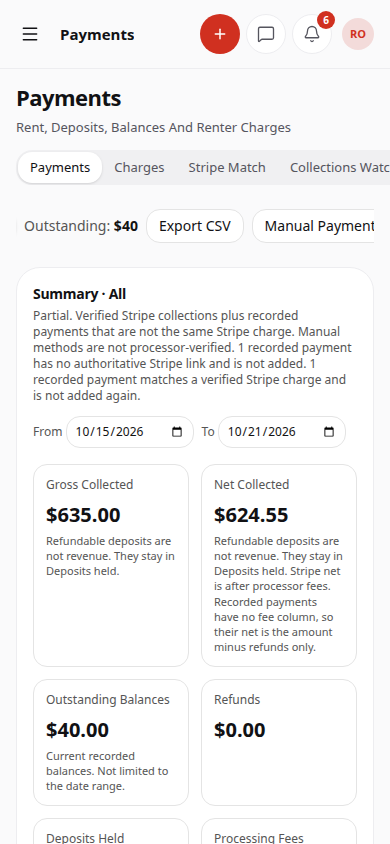
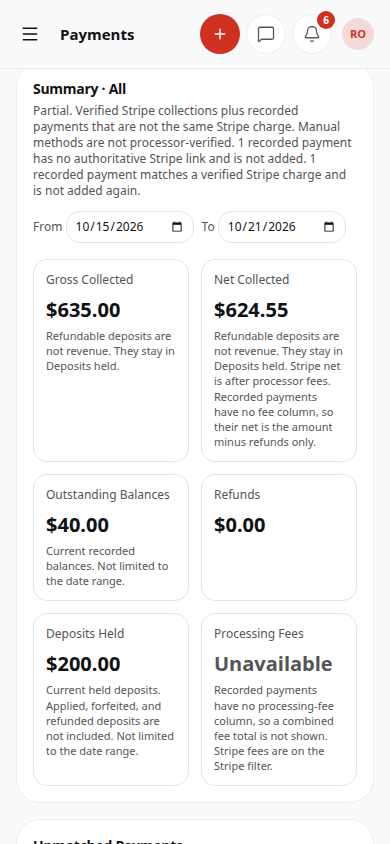
Keep the payments outstanding total off the date range.
The top bar sums source-filtered balances, so an overdue row due before the window still matches the Outstanding Balances card. The table and CSV share one visible-row list, checked from fixture data.

diff --git a/src/components/admin/PaymentsPanel.tsx b/src/components/admin/PaymentsPanel.tsx
@@ -15,11 +15,14 @@ import {
   SOURCE_LABEL,
   SOURCE_MAPPING_GAPS,
   classifyPaymentSource,
+  paymentCsvRecords,
   paymentsCsv,
   paymentsExportFilename,
   readEveryPage,
+  recordedOutstandingTotal,
   rowInReportRange,
   summarizePayments,
+  visiblePayments,
   type DepositRentalFact,
   type Metric,
   type RefundLink,
@@ -215,31 +218,21 @@ export function PaymentsPanel({
   }, [rangeProblem, extras, readsComplete, canSeeCollections, stripeQuery.isError, stripeQuery.data, payments, refundLinks, depositRentals, source, range]);
   const stripeTagged = sourced.filter((p) => p.stripe_payment_intent_id || p.stripe_invoice_id || p.stripe_subscription_id);
 
-  const filtered = (
-    statusFilter === "all"
-      ? inRangeRows
-      : statusFilter === "overdue"
-        ? inRangeRows.filter((p) => OVERDUE_SET.has(p.status as string))
-        : inRangeRows.filter((p) => p.status === statusFilter)
-  )
-    .slice()
-    .sort((a, b) => {
-      if (sort === "amount_desc") return Number(b.amount) - Number(a.amount);
-      const ad = a.due_date || "9999";
-      const bd = b.due_date || "9999";
-      return sort === "due_asc" ? ad.localeCompare(bd) : bd.localeCompare(ad);
-    });
+  const paymentView = {
+    range,
+    status: statusFilter,
+    sort,
+    overdueStatuses: COLLECTIONS_WATCH_STATUSES,
+  };
+  const filtered = visiblePayments(sourced, paymentView);
 
-  // Owed now: due/unpaid states only. Upcoming isn't due yet; paid, refunded,
-  // waived and void owe nothing. A settled balance of 0 is 0, not the amount.
-  const OWED = new Set(["pending", "current", "late", "overdue", "past_due", "failed", "unpaid", "collections"]);
-  const totalDue = filtered
-    .filter((p) => OWED.has(p.status as string))
-    .reduce((s, p) => s + (p.balance_due == null ? Number(p.amount || 0) : Number(p.balance_due)), 0);
+  // Same balances as the Outstanding Balances card: source filter only.
+  // A balance due before this range still counts.
+  const totalDue = recordedOutstandingTotal(sourced);
 
   function downloadPaymentsCsv() {
     if (rangeMessage(range)) return;
-    const lines = filtered.map((p) => {
+    const lines = paymentCsvRecords(sourced, paymentView).map((p) => {
       const d = p.driver_id ? driverMap[p.driver_id] : null;
       const v = p.vehicle_id ? vehicleMap[p.vehicle_id] : null;
       const lateFees = Number(p.late_fees || 0);

diff --git a/src/lib/payment-reporting.ts b/src/lib/payment-reporting.ts
@@ -464,6 +464,49 @@ export function rowInReportRange(
   return day >= range.from && day <= range.to;
 }
 
+type OutstandingRow = { status?: string | null; balance_due?: number | null; amount?: number | null };
+
+/**
+ * Owed on the source filter only. The date range does not apply: an overdue
+ * balance due before the window stays here, matching the Outstanding Balances card.
+ */
+export function recordedOutstandingTotal(rows: readonly OutstandingRow[]): number {
+  return rows
+    .filter((row) => OUTSTANDING_STATUSES.includes(row.status as (typeof OUTSTANDING_STATUSES)[number]))
+    .reduce((sum, row) => sum + (row.balance_due == null ? Number(row.amount || 0) : Number(row.balance_due)), 0);
+}
+
+export type PaymentView = {
+  range: DayWindow | null;
+  status: string;
+  sort: "due_asc" | "due_desc" | "amount_desc";
+  overdueStatuses?: readonly string[];
+};
+
+type ViewRow = OutstandingRow & { paid_date?: string | null; due_date?: string | null };
+
+/** Rows the payments table shows for this source, range, status, and sort. */
+export function visiblePayments<T extends ViewRow>(sourced: readonly T[], view: PaymentView): T[] {
+  const overdue = new Set(view.overdueStatuses ?? []);
+  const inRange = sourced.filter((row) => rowInReportRange(row, view.range));
+  const filtered = view.status === "all"
+    ? inRange
+    : view.status === "overdue"
+      ? inRange.filter((row) => overdue.has(String(row.status ?? "")))
+      : inRange.filter((row) => row.status === view.status);
+  return filtered.slice().sort((a, b) => {
+    if (view.sort === "amount_desc") return Number(b.amount) - Number(a.amount);
+    const ad = a.due_date || "9999";
+    const bd = b.due_date || "9999";
+    return view.sort === "due_asc" ? ad.localeCompare(bd) : bd.localeCompare(ad);
+  });
+}
+
+/** CSV rows are the table rows. This does not apply the range a second time. */
+export function paymentCsvRecords<T extends ViewRow>(sourced: readonly T[], view: PaymentView): T[] {
+  return visiblePayments(sourced, view);
+}
+
 export const PAYMENT_CSV_COLUMNS = ["Driver", "Vehicle", "Type", "Amount", "Due", "Status", "Method", "Late Fees", "Balance"] as const;
 
 function csvField(value: string): string {
